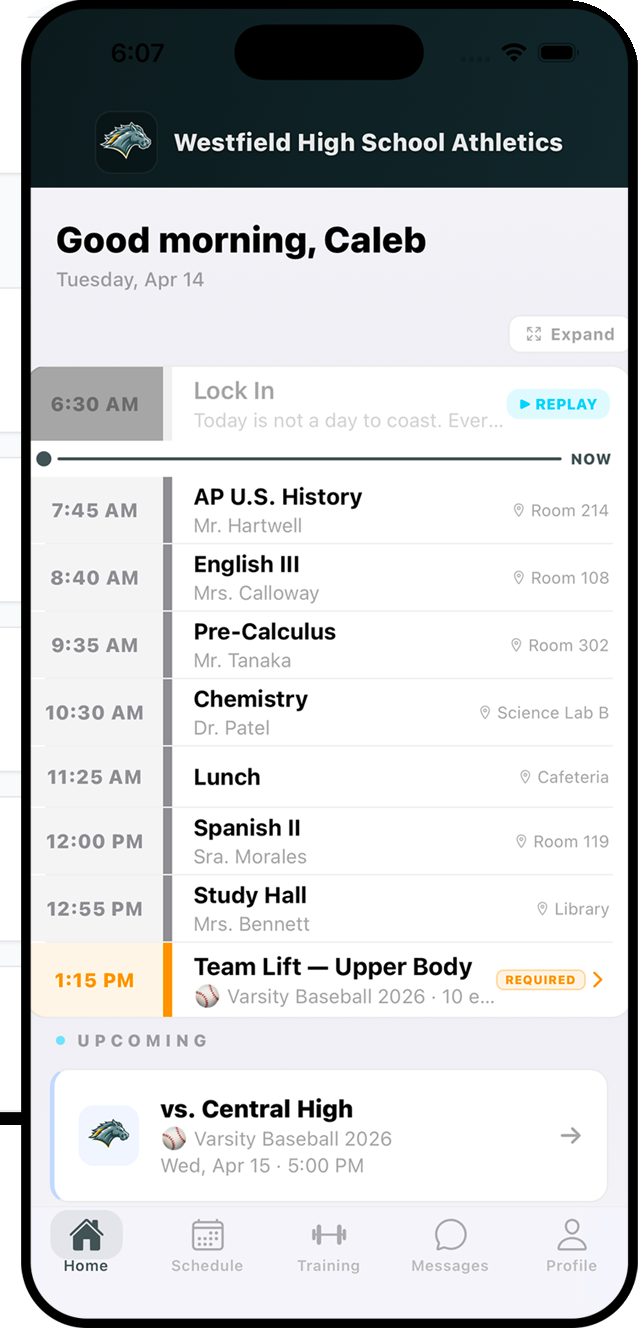
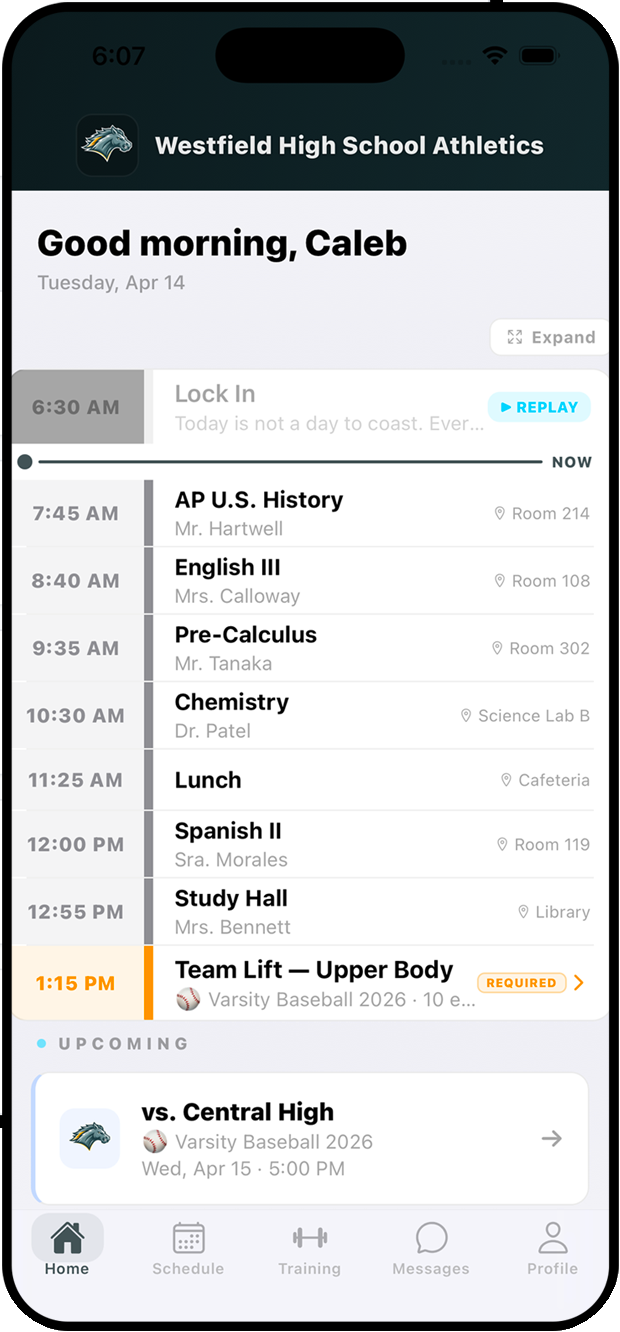
fix: remove white strip behind hero phone
The phone crop included ~20px of dashboard-white left of the bezel
(opaque, showed as a white box behind the phone). Re-cropped tight to
the detected bezel edge (x2509) and re-masked. Bumped phone to ?v=3.

diff --git a/index.html b/index.html
@@ -91,7 +91,7 @@
         <div class="hero-visual">
           <div class="hero-stage">
             <div class="hero-laptop"><img src="/images/product/ad-dashboard.png?v=1" alt="AMPD athletic director dashboard"></div>
-            <img class="hero-phone" src="/images/hero/hero-phone.png?v=2" alt="AMPD athlete app — daily schedule">
+            <img class="hero-phone" src="/images/hero/hero-phone.png?v=3" alt="AMPD athlete app — daily schedule">
           </div>
         </div>
       </div>